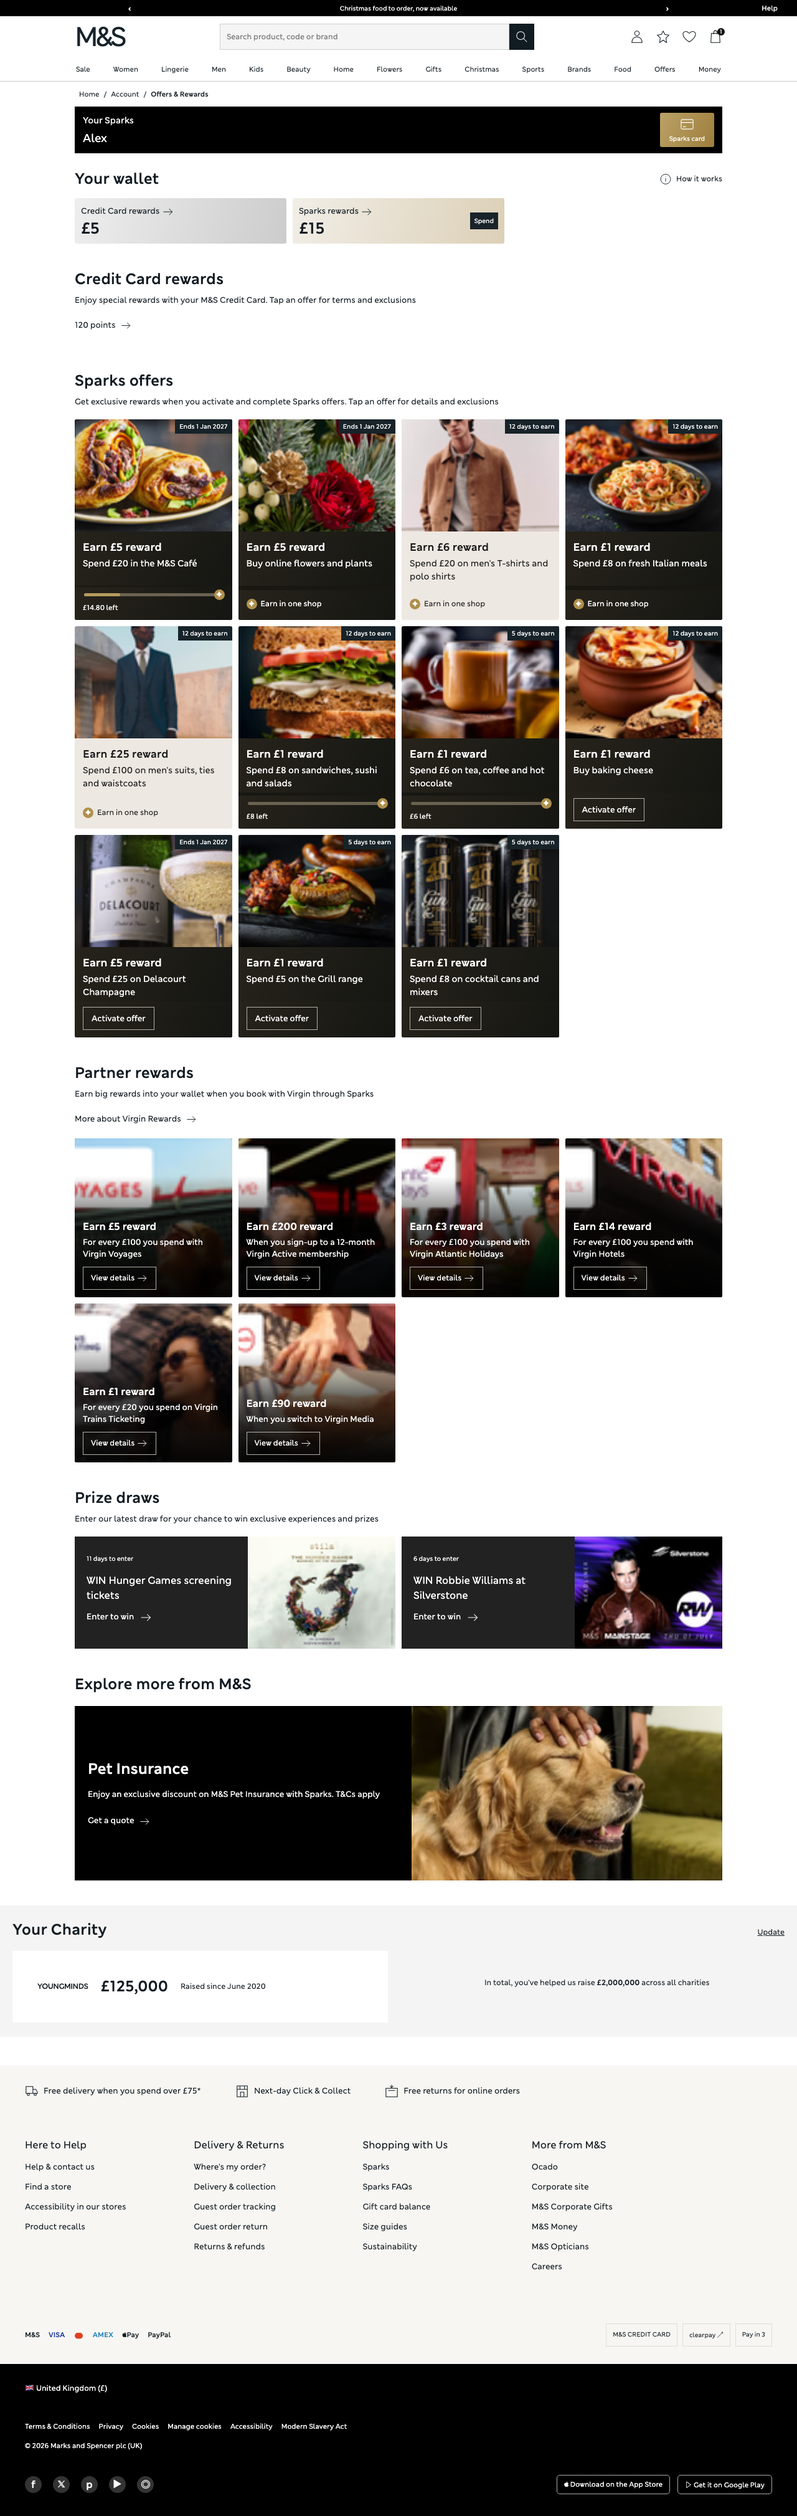
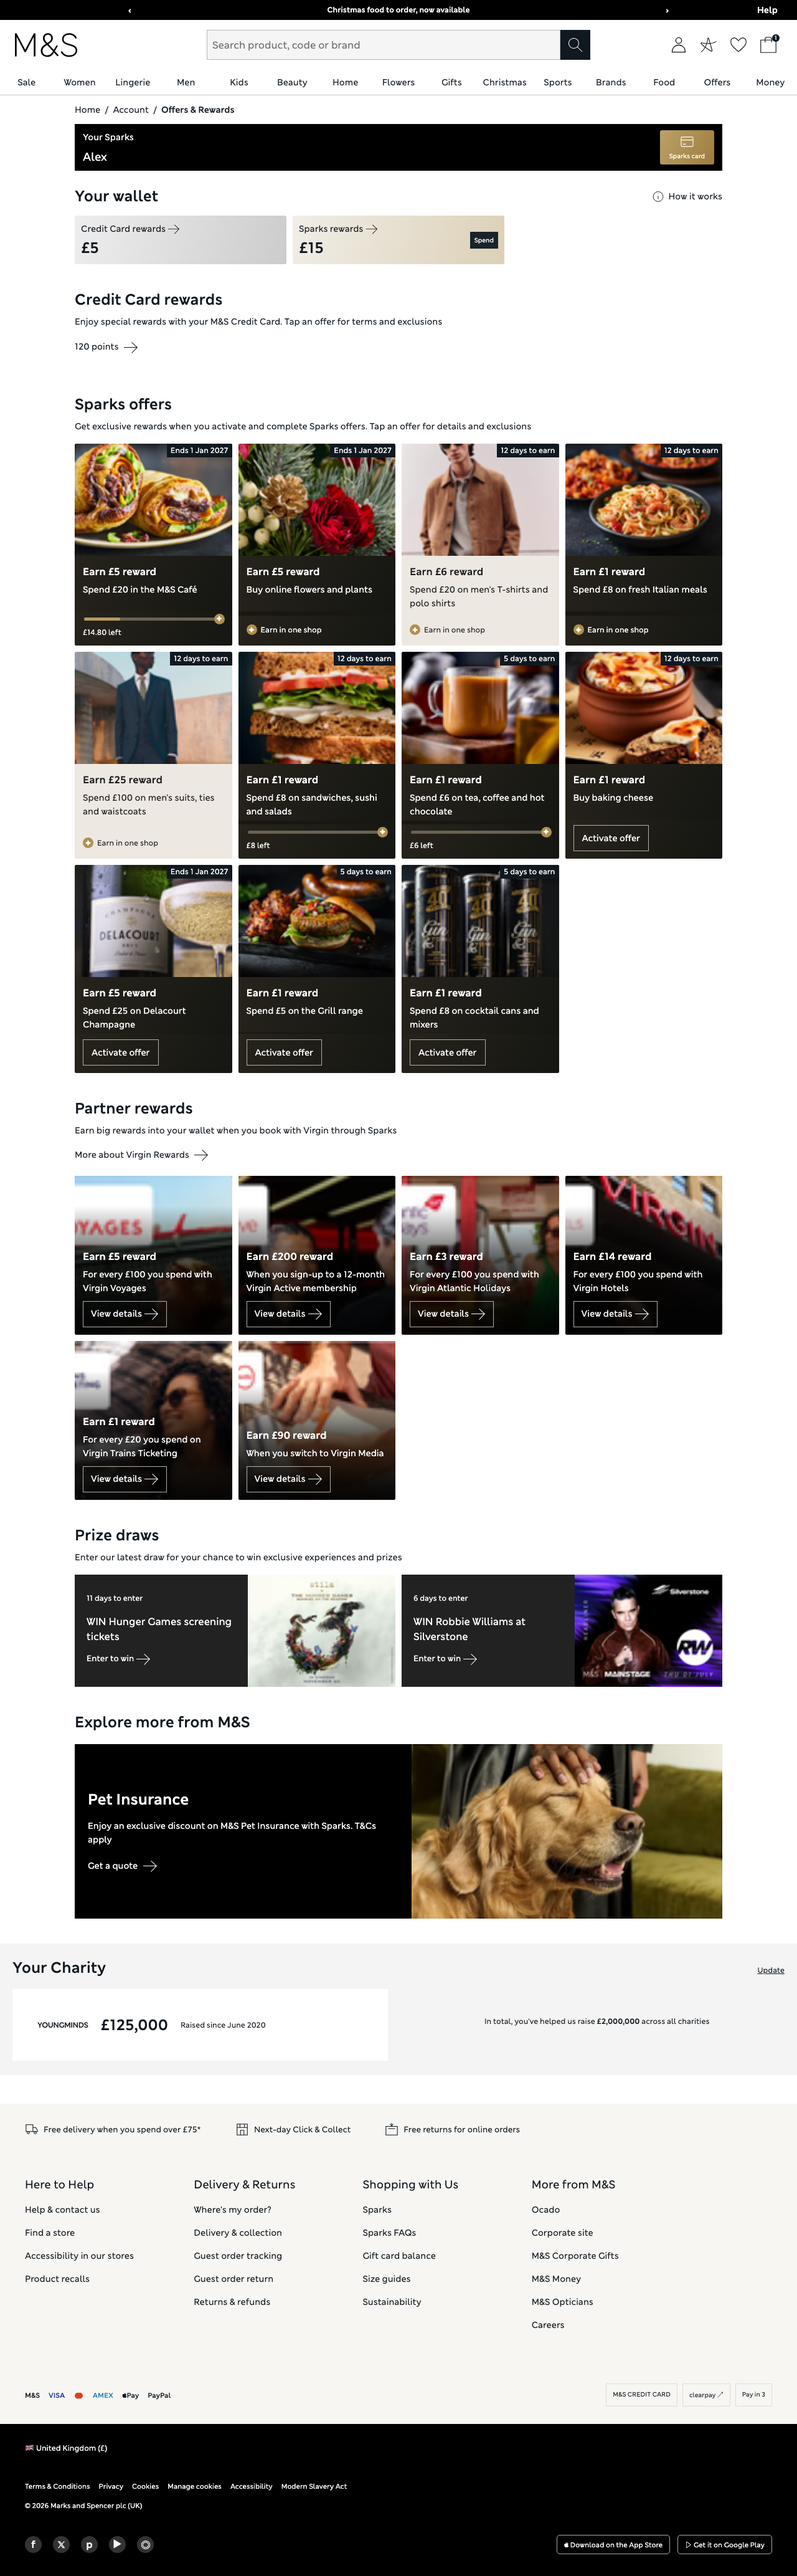
Align shared M&S brand typography and header assets

diff --git a/brand.css b/brand.css
@@ -1,0 +1,141 @@
+/* Shared M&S shell measured on /c/sparks, 24 September 2026.
+   Account-only component geometry remains based on the supplied screenshot. */
+@font-face {
+  font-family: "New MS London";
+  src: url('./assets/mns-regular.woff2') format('woff2');
+  font-style: normal;
+  font-weight: 400;
+  font-display: swap;
+}
+@font-face {
+  font-family: "New MS London";
+  src: url('./assets/mns-semibold.woff2') format('woff2');
+  font-style: normal;
+  font-weight: 600 800;
+  font-display: swap;
+}
+:root {
+  --mns-ink: #101820;
+  --mns-copy: #222222;
+  --mns-border: #b8b8b8;
+  font-family: "New MS London", Helvetica, Arial, sans-serif;
+  color: var(--mns-ink);
+  font-size: 16px;
+}
+.brand {
+  display: inline-flex;
+  flex-shrink: 0;
+  line-height: 1;
+  letter-spacing: normal;
+}
+.brand img { display: block; width: 100px; height: 40px; }
+.mns-icon {
+  display: inline-block;
+  width: 24px;
+  height: 24px;
+  flex-shrink: 0;
+  vertical-align: middle;
+  background: currentColor;
+  mask: var(--icon) center / contain no-repeat;
+  -webkit-mask: var(--icon) center / contain no-repeat;
+}
+[data-icon="arrow"] { --icon: url('./assets/icon-arrow.svg'); }
+[data-icon="search"] { --icon: url('./assets/icon-search.svg'); }
+[data-icon="star"] { --icon: url('./assets/icon-star.svg'); }
+[data-icon="heart"] { --icon: url('./assets/icon-heart.svg'); }
+[data-icon="bag"] { --icon: url('./assets/icon-bag.svg'); }
+[data-icon="menu"] { --icon: url('./assets/icon-menu.svg'); }
+[data-icon="close"] { --icon: url('./assets/icon-close.svg'); }
+.announcement { height: 32px; font-size: 12px; line-height: 18px; font-weight: 700; }
+.announcement .help { font-size: 14px; line-height: 22.75px; font-weight: 700; }
+.header-main.container {
+  max-width: 1280px;
+  height: 80px;
+  padding: 16px 24px;
+  margin: 0 auto;
+  gap: 24px;
+}
+.header-main .brand { width: calc(25% - 24px); }
+.header-search { width: 50%; max-width: none; margin-left: 0; }
+.header-search input {
+  height: 48px;
+  padding: 8px;
+  font-size: 16px;
+  line-height: 26px;
+  color: var(--mns-copy);
+  background: #f5f5f5;
+  border-color: var(--mns-border);
+}
+.header-search button { width: 48px; background: var(--mns-ink); }
+.header-actions { gap: 4px; }
+.header-actions button { width: 44px; height: 48px; display: grid; place-items: center; }
+.header-actions .mns-icon, .header-actions svg { width: 28px; height: 28px; }
+.bag-count { top: 7px; right: 4px; background: var(--mns-ink); }
+.department-nav.container { max-width: 1280px; height: 40px; margin: 0 auto; gap: 0; }
+.department-nav button { flex: 1; padding: 8px 0; font-size: 14px; line-height: 22px; }
+.department-nav button:hover { text-decoration: underline; text-underline-offset: 4px; }
+.mobile-search-toggle { display: none; background: none; border: 0; }
+.breadcrumbs { font-size: 14px; line-height: 22px; padding: 12px 0; }
+h1, h2 { font-weight: 700; line-height: 32px; letter-spacing: normal; }
+.section-intro { font-size: 14px; line-height: 22px; }
+.member-copy { font-size: 14px; line-height: 22px; }
+.member-copy p { line-height: 26px; }
+.wallet-label { font-size: 14px; line-height: 22px; }
+.wallet-value { font-size: 24px; line-height: 32px; font-weight: 700; }
+.wallet-label .mns-icon { width: 20px; height: 20px; }
+.text-button, .how-it-works { font-size: 14px; line-height: 22px; }
+.text-button .mns-icon { width: 24px; height: 24px; margin-left: 4px; }
+.offer-copy strong { font-size: 16px; line-height: 24px; font-weight: 700; letter-spacing: normal; }
+.offer-description, .partner-overlay p { font-size: 14px; line-height: 22px; }
+.badge { font-size: 12px; line-height: 18px; padding: 2px 6px; background: var(--mns-ink); }
+.outline-button { font-size: 14px; line-height: 22px; border-radius: 0; }
+.partner-overlay strong { font-weight: 700; line-height: 24px; }
+.partner-overlay button { font-size: 14px; line-height: 22px; }
+.progress-label, .earn-shop { font-size: 12px; line-height: 18px; }
+.prize-copy strong { font-size: 16px; line-height: 24px; }
+.prize-copy small { font-size: 12px; line-height: 18px; }
+.feature-copy p { font-size: 14px; line-height: 22px; }
+.dialog-button { background: var(--mns-ink); font-size: 16px; line-height: 26px; border-radius: 0; }
+dialog { color: var(--mns-ink); border-radius: 0; }
+dialog h2 { font-size: 24px; line-height: 32px; }
+dialog p { font-size: 16px; line-height: 26px; }
+.dialog-search input { width: 100%; height: 48px; padding: 8px; border: 1px solid var(--mns-border); }
+.dialog-close .mns-icon { width: 20px; height: 20px; }
+.footer-links button { font-size: 14px; line-height: 22px; }
+.footer-links h3 { font-size: 18px; line-height: 26px; }
+@media (max-width: 1279px) {
+  .header-main.container { gap: 16px; }
+  .header-main .brand { width: auto; }
+  .brand img { width: 60px; height: 24px; }
+  .mobile-menu { display: block; }
+  .department-nav { display: none; }
+  .header-search { flex: 1; }
+  .header-actions button { width: 36px; }
+}
+@media (max-width: 767px) {
+  .announcement .help { display: none; }
+  .announcement > button { left: 12px; }
+  .announcement > button.next { right: 12px; }
+  .header-main.container { height: 48px; padding: 8px 16px; gap: 12px; flex-wrap: nowrap; }
+  .header-main .brand { order: -1; margin-right: 8px; }
+  .header-search { display: none; }
+  .mobile-menu, .mobile-search-toggle { display: grid; place-items: center; width: 32px; height: 32px; padding: 0; }
+  .mobile-menu .mns-icon, .mobile-search-toggle .mns-icon { width: 20px; height: 20px; }
+  .header-actions { margin-left: auto; gap: 4px; }
+  .header-actions button { width: 28px; height: 32px; }
+  .header-actions .mns-icon, .header-actions svg { width: 20px; height: 20px; }
+  .header-actions .star-action { display: none; }
+  .bag-count { top: 0; right: -2px; }
+  .breadcrumbs { font-size: 12px; line-height: 18px; }
+  h1, h2 { font-size: 24px; line-height: 32px; }
+  .how-it-works { font-size: 12px; line-height: 18px; }
+  .wallet-label { font-size: 12px; line-height: 18px; }
+  .offer-card { min-height: 316px; }
+  .offer-description { min-height: 66px; }
+  .badge { font-size: 10px; line-height: 16px; }
+  .partner-card { height: 260px; }
+  .partner-overlay button, .outline-button { font-size: 12px; line-height: 18px; padding: 8px 10px; }
+}
+@media (prefers-reduced-motion: reduce) {
+  .photo-wrap img, .partner-card > img { transition: none; }
+}

diff --git a/hub.js b/hub.js
@@ -18,7 +18,10 @@ const shapes = {
   returns: '<path d="M2 7h20v15H2Zm4 4h12M12 1v5m-3-3 3 3 3-3"/>',
   menu: '<path d="M3 5h18M3 12h18M3 19h18"/>'
 };
-const icon = (name) => `<svg viewBox="0 0 24 24" aria-hidden="true">${shapes[name] || shapes.arrow}</svg>`;
+const brandIcons = new Set(['arrow', 'search', 'star', 'heart', 'bag', 'menu', 'close']);
+const icon = (name) => brandIcons.has(name)
+  ? `<span class="mns-icon" data-icon="${name}" aria-hidden="true"></span>`
+  : `<svg viewBox="0 0 24 24" aria-hidden="true">${shapes[name] || shapes.arrow}</svg>`;
 const action = (name, label, cls = '', id = '') => `<button class="${cls}" data-action="${name}" data-id="${esc(id)}">${label}</button>`;
 const image = (src, alt = '', cls = '') => `<img src="${esc(src)}" alt="${esc(alt)}" class="${cls}" loading="lazy">`;
 let data;
@@ -86,7 +89,7 @@ function render() {
   const balance = Math.max(0, data.customer.sparksRewards - state.spent);
   app.innerHTML = `<header class="site-header">
     <div class="announcement">${action('info', '‹', '', 'Latest at M&S')}<span>${esc(data.announcement)}</span>${action('info', '›', 'next', 'Latest at M&S')}${action('info', 'Help', 'help', 'Help')}</div>
-    <div class="header-main container">${action('menu', icon('menu'), 'mobile-menu')}<a href="#" class="brand" aria-label="M&S home" data-action="home">M&S</a><form class="header-search" role="search"><input aria-label="Search offers" placeholder="Search product, code or brand" value="${esc(query)}"><button aria-label="Search offers">${icon('search')}</button></form><div class="header-actions"><button data-action="account" aria-label="Your account">${icon('user')}</button><button data-action="card" class="star-action" aria-label="Your Sparks card">${icon('star')}</button><button data-action="info" data-id="Your favourites" aria-label="Your favourites">${icon('heart')}</button><button data-action="info" data-id="Shopping bag" aria-label="Shopping bag, 1 item">${icon('bag')}<span class="bag-count">1</span></button></div></div>
+    <div class="header-main container"><button data-action="menu" class="mobile-menu" aria-label="Open navigation menu">${icon('menu')}</button><a href="#" class="brand" aria-label="M&S home" data-action="home"><img src="./assets/mands-logo.svg" alt="" width="100" height="40"></a><form class="header-search" role="search"><input aria-label="Search offers" placeholder="Search product, code or brand" value="${esc(query)}"><button aria-label="Search offers">${icon('search')}</button></form><button data-action="search" class="mobile-search-toggle" aria-label="Open search">${icon('search')}</button><div class="header-actions"><button data-action="account" aria-label="Your account">${icon('user')}</button><button data-action="card" class="star-action" aria-label="Your Sparks card">${icon('star')}</button><button data-action="info" data-id="Your favourites" aria-label="Your favourites">${icon('heart')}</button><button data-action="info" data-id="Shopping bag" aria-label="Shopping bag, 1 item">${icon('bag')}<span class="bag-count">1</span></button></div></div>
     <nav class="department-nav container" aria-label="Departments">${['Sale', 'Women', 'Lingerie', 'Men', 'Kids', 'Beauty', 'Home', 'Flowers', 'Gifts', 'Christmas', 'Sports', 'Brands', 'Food', 'Offers', 'Money'].map((item) => action('info', item, '', item)).join('')}</nav>
     </header>
     <main class="container"><nav class="breadcrumbs" aria-label="Breadcrumb">${action('home', 'Home')} / ${action('account', 'Account')} / <span>Offers & Rewards</span></nav>
@@ -124,6 +127,11 @@ document.addEventListener('click', (event) => {
     return;
   }
   if (name === 'home' || name === 'clear-search') { query = ''; render(); return; }
+  if (name === 'search') {
+    openDialog('Search Sparks offers', `<form class="dialog-search" role="search"><input aria-label="Search offers" placeholder="Search your offers" value="${esc(query)}"><button class="dialog-button" type="submit">Search offers</button></form>`);
+    document.querySelector('.dialog-search input').focus();
+    return;
+  }
   if (name === 'card') return openDialog('Your Sparks card', `<div class="digital-card"><strong>sparks</strong><p>${esc(data.customer.name)}</p><div class="barcode" aria-hidden="true"></div><span class="preview-warning">DEMO CARD · NOT VALID FOR USE</span></div>`, action('close', 'Done', 'dialog-button'));
   if (name === 'account') return openDialog(`Hello, ${data.customer.name}`, '<p>Welcome to your personalised Sparks hub. Your rewards, offers and favourite moments, all in one place.</p>', action('card', 'View Sparks card', 'dialog-button'));
   if (name === 'how') return openDialog('A little more rewarding', '<p><strong>1. Activate your offers.</strong><br>Choose the Sparks offers you love.</p><p><strong>2. Shop and scan.</strong><br>Scan your Sparks card when you shop.</p><p><strong>3. Enjoy your rewards.</strong><br>Qualifying rewards appear in your Sparks wallet.</p>', action('close', 'Got it', 'dialog-button'));
@@ -169,9 +177,10 @@ document.addEventListener('click', (event) => {
   openDialog(id || 'Explore M&S', '<p>This link is a placeholder outside the Sparks hub prototype. You can keep exploring your wallet, activate offers, view partner rewards and enter demo prize draws.</p>', action('close', 'Back to Sparks', 'dialog-button'));
 });
 document.addEventListener('submit', (event) => {
-  if (!event.target.matches('.header-search')) return;
+  if (!event.target.matches('.header-search, .dialog-search')) return;
   event.preventDefault();
   query = event.target.querySelector('input').value.trim();
+  if (dialog.open) dialog.close();
   render();
   document.querySelector('.offers-section').scrollIntoView({ behavior: 'smooth', block: 'start' });
 });

diff --git a/hub.html b/hub.html
@@ -6,11 +6,12 @@
   <meta name="viewport" content="width=device-width, initial-scale=1">
   <title>Your Sparks | M&S prototype</title>
   <link rel="stylesheet" href="./hub.css">
+  <link rel="stylesheet" href="./brand.css">
 </head>
 <body>
   <div id="app"><p class="loading">Loading your Sparks…</p></div>
   <dialog id="detail-dialog" aria-labelledby="dialog-title">
-    <button class="dialog-close" aria-label="Close dialog" data-action="close">×</button>
+    <button class="dialog-close" aria-label="Close dialog" data-action="close"><span class="mns-icon" data-icon="close" aria-hidden="true"></span></button>
     <div id="dialog-content"></div>
   </dialog>
   <div id="toast" role="status" aria-live="polite"></div>
